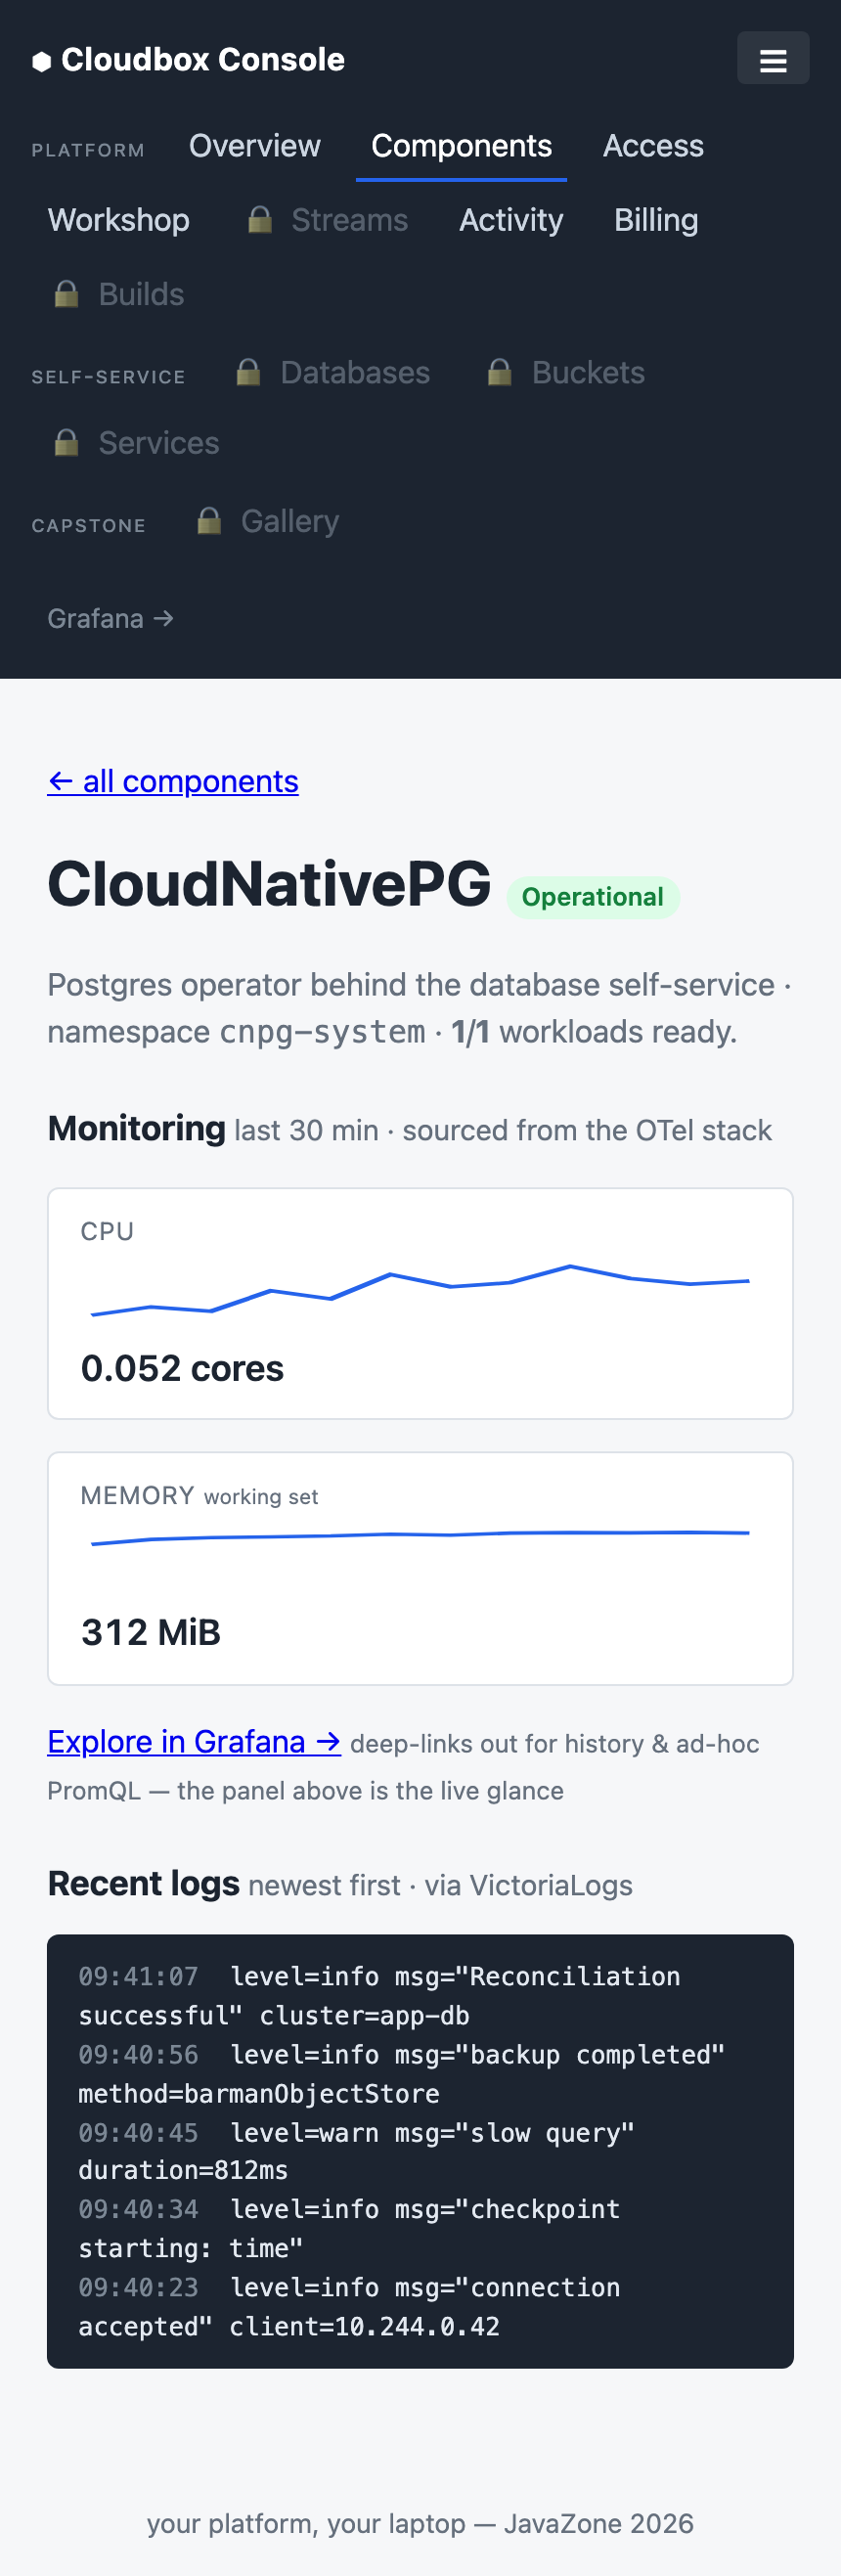
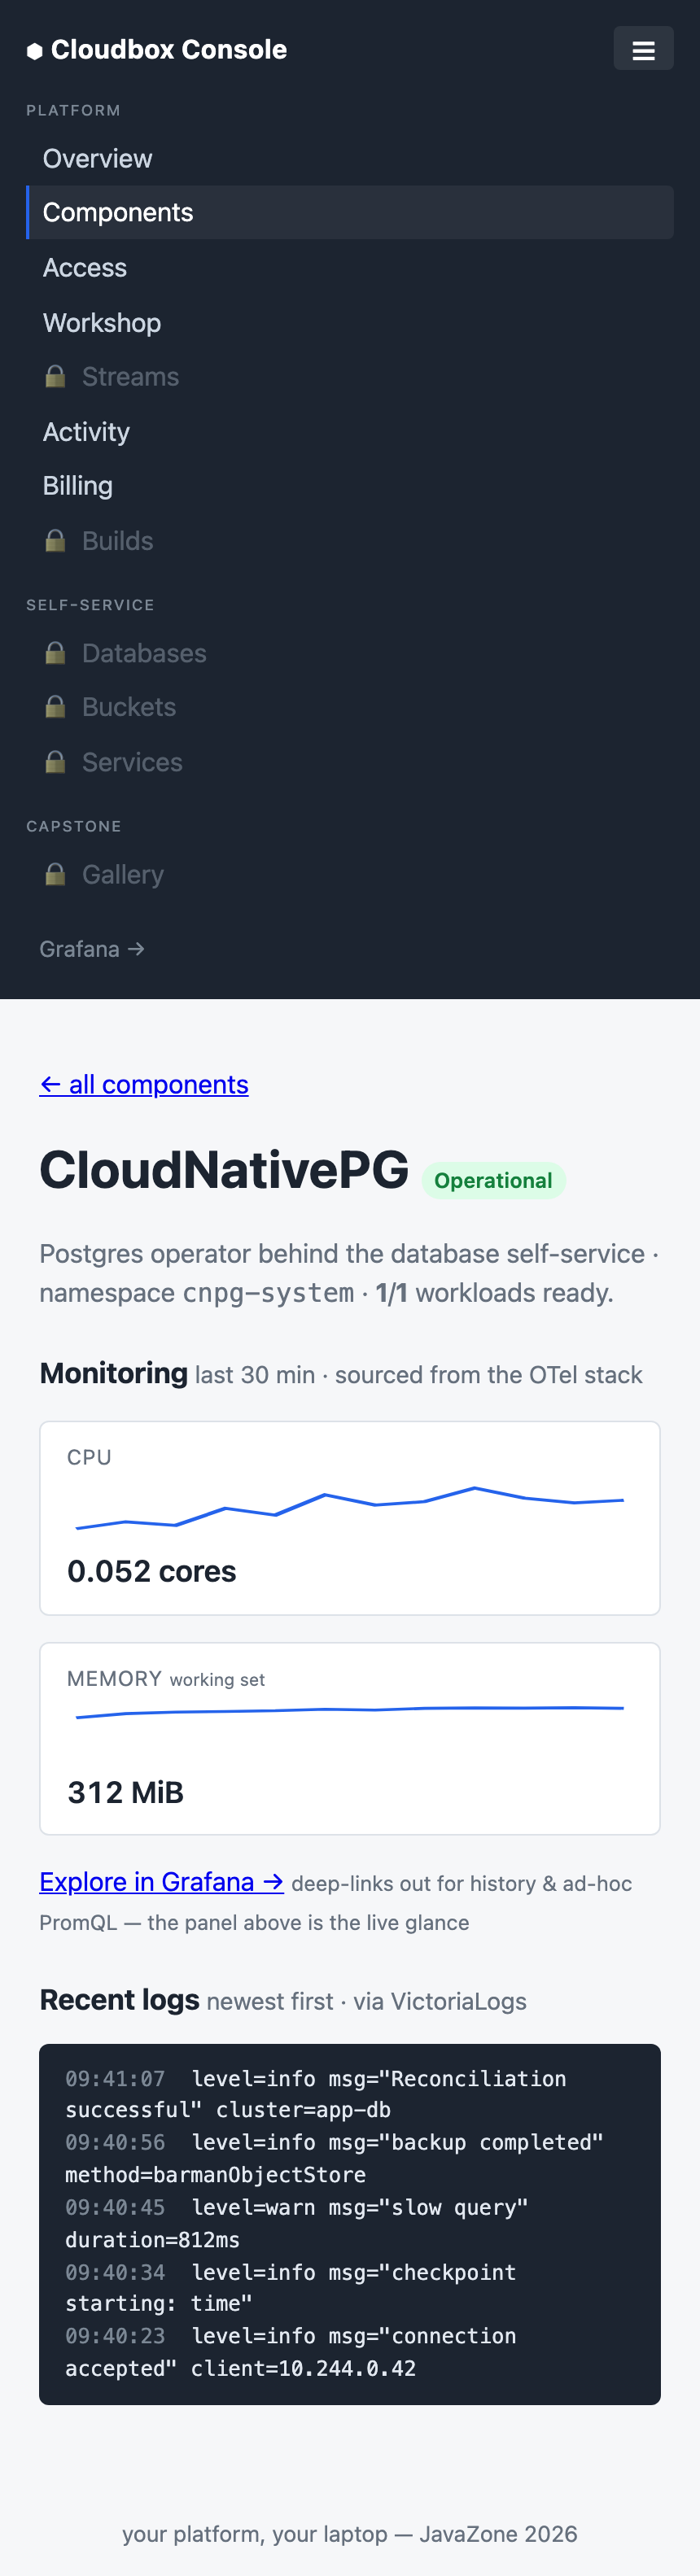
fix(portal): mobile nav drawer — clean vertical list, not a horizontal wrap
The opened hamburger drawer inherited a horizontal flex-wrap layout that
flowed links across lines mid-section — it read as chaotic. Drop those
mobile overrides so the opened nav renders as the desktop rail's clean
VERTICAL list (sections stacked, one link per line, active item's accent
bar intact). Collapsed bar + desktop are unchanged.

Claude-Session: https://claude.ai/code/session_014zBYNJReRZBs2vwmTvUTg1

diff --git a/apps/portal/internal/web/static/style.css b/apps/portal/internal/web/static/style.css
@@ -101,16 +101,14 @@ nav a[aria-current="page"] {
     border-radius: 4px;
   }
   .nav-burger:hover { color: #fff; background: rgba(255, 255, 255, 0.08); }
-  /* collapsed by default; the checked toggle reveals nav + foot */
+  /* Collapsed by default; the checked toggle reveals the drawer. The opened
+     nav is a clean VERTICAL list — it inherits the desktop rail's nav-group /
+     nav-label / link styles (no horizontal wrap, which read as chaotic). */
   .rail nav, .rail .rail-foot { display: none; }
-  .nav-toggle:checked ~ nav { display: flex; flex-wrap: wrap; gap: 0 1.5rem; margin-top: 0.9rem; }
+  .nav-toggle:checked ~ nav { display: block; margin-top: 1rem; }
   .nav-toggle:checked ~ .rail-foot { display: block; margin-top: 0.75rem; }
-  /* each section wraps its own items too — the Platform group has 8 links and
-     must not run off a phone's width (it did: horizontal scroll). */
-  .nav-group { display: flex; flex-wrap: wrap; align-items: baseline; gap: 0.15rem 0.6rem; margin-bottom: 0.4rem; }
-  .nav-label { margin: 0 0.25rem 0 0; }
-  nav a { border-left: none; border-bottom: 2px solid transparent; border-radius: 0; }
-  nav a[aria-current="page"] { border-bottom-color: var(--accent); background: none; }
+  /* tighten the section rhythm a touch for the drawer (desktop uses 1.25rem) */
+  .nav-toggle:checked ~ nav .nav-group { margin-bottom: 0.9rem; }
 }
 
 main { width: 100%; max-width: 62rem; margin: 0 auto; padding: 1.5rem; }